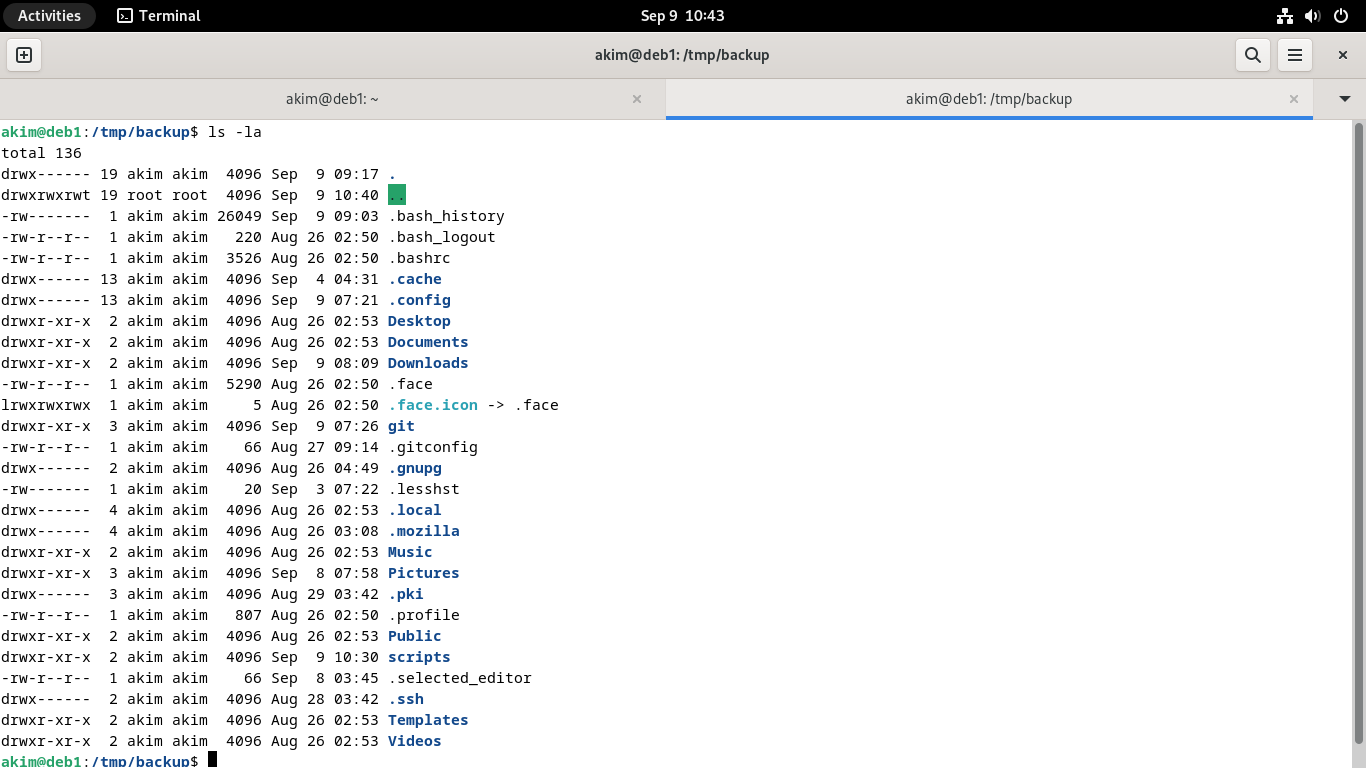
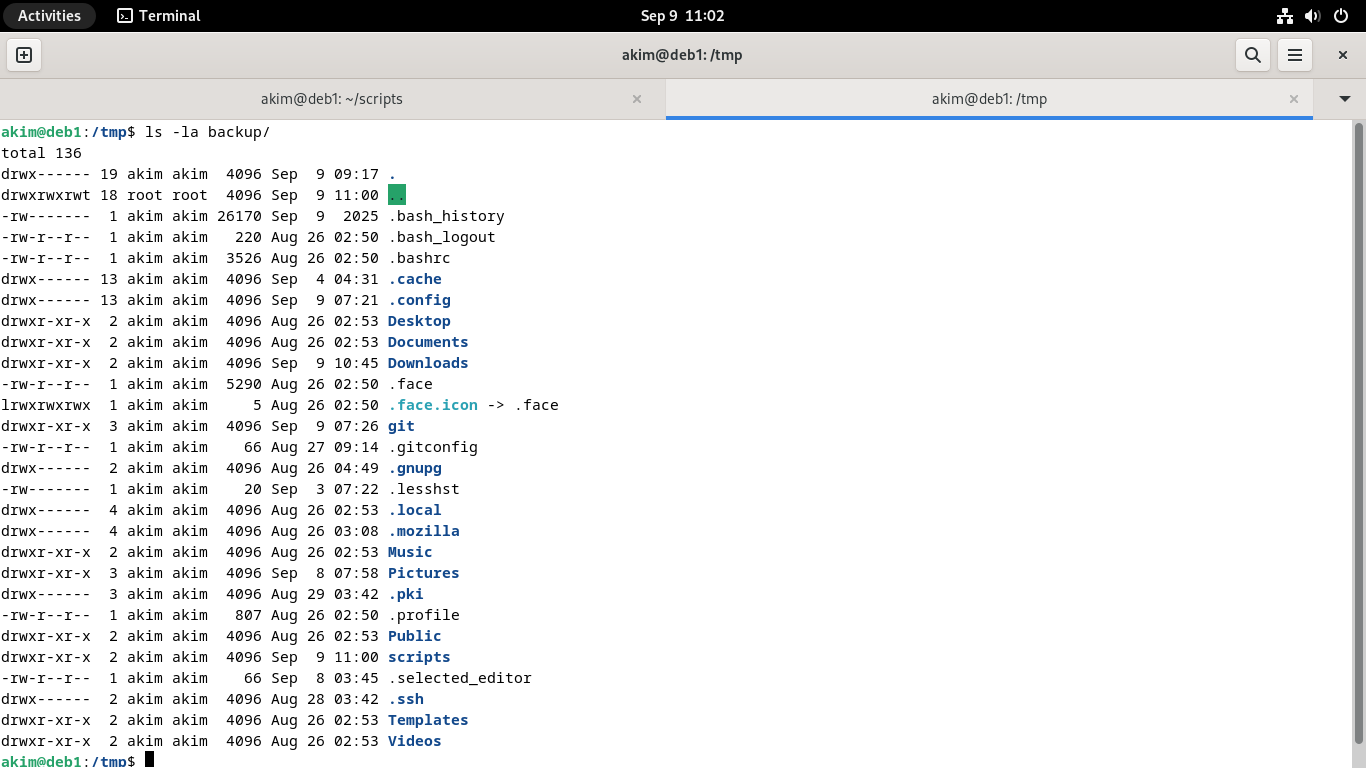
pics

diff --git a/README.md b/README.md
@@ -21,12 +21,17 @@ sudo rsync -a --progress --delete --exclude="/.*" --checksum . /tmp/backup/
 Содержание скрипта:
 ```
 #!/bin/sh
-rsync -a --delete --progress --checksum . /tmp/backup/
+
+SRC="$HOME/"
+DEST="/tmp/backup/"
+LOG="/tmp/backup.log"
+
+rsync -a -v --delete "$SRC" "$DEST" >> "$LOG" 2>&1
 ```
 
 Задача для crontab'а:
 ```
-40 10 * * * /home/akim/scripts/daily_backup.sh
+* 11 * * * /home/akim/scripts/daily_backup.sh
 ```
 
 Результат копирования:
